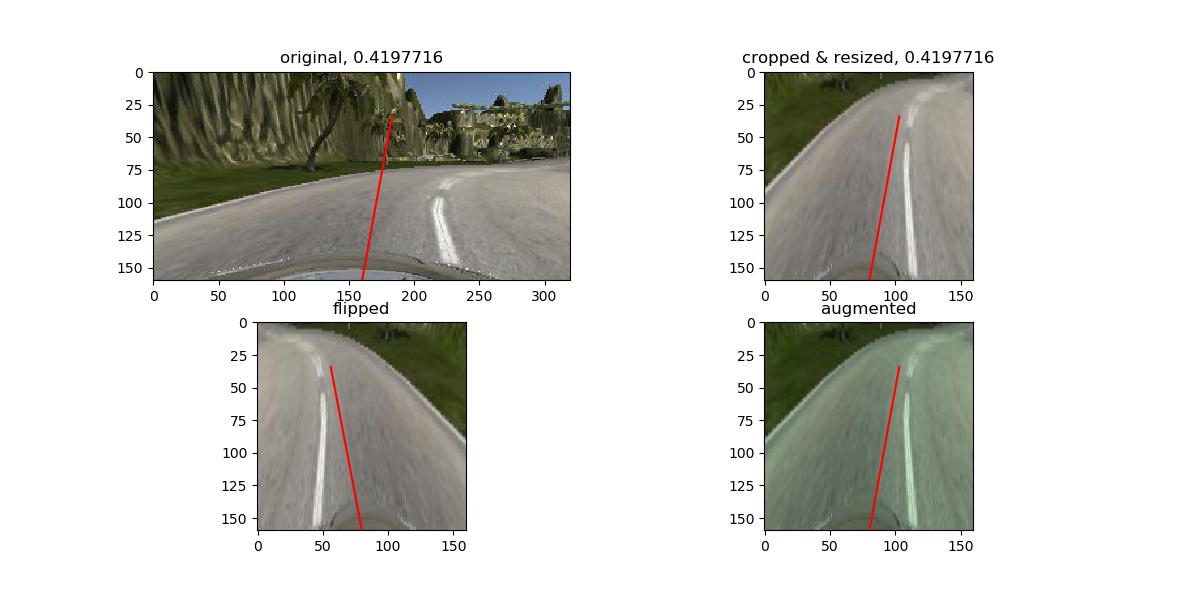
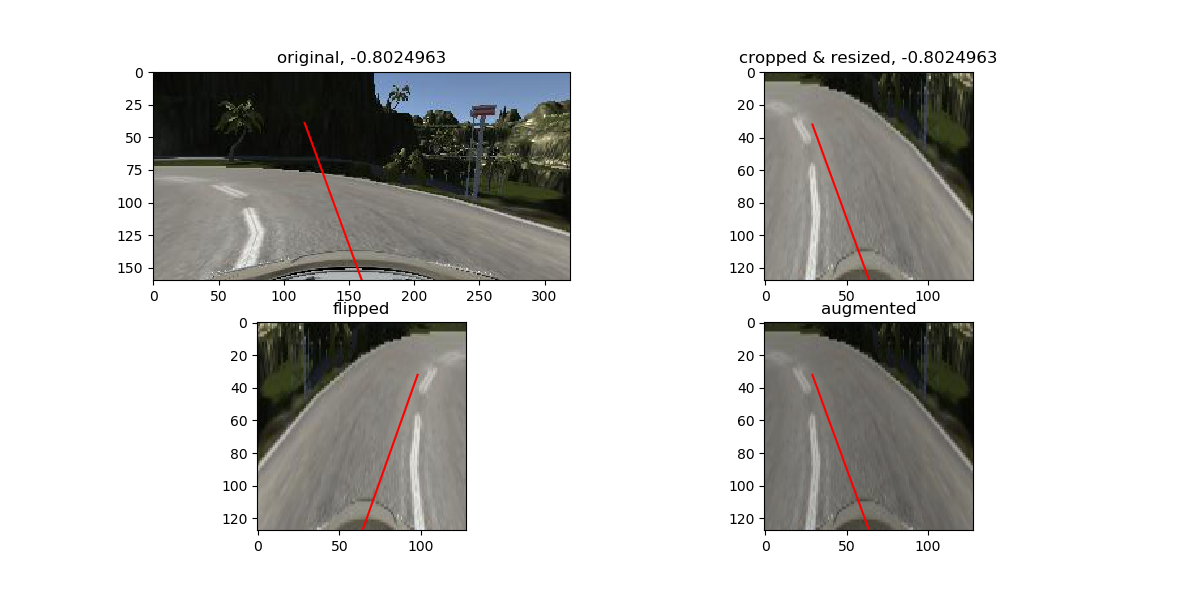
update

diff --git a/test.py b/test.py
@@ -13,7 +13,7 @@ import matplotlib.image as mpimg
 import matplotlib.pyplot as plt
 from helper import *
 
-data_path ='./me_track2_data'
+data_path ='./me_track2_data3'
 
 logs = []
 input_file = csv.reader(open(data_path + '/driving_log.csv'))
@@ -51,7 +51,7 @@ def angle_line(input_img, angle):
     liney = (y0,y1)
     return linex, liney
 
-for log in logs[1000:]:
+for log in logs[100:]:
     plt.figure(figsize=(12, 6), facecolor='w', edgecolor='k')
     orig_img, angle = load_img(log, perspective = pers , steering_correction = 0.2)
     plt.subplot(221)

diff --git a/model.py b/model.py
@@ -22,7 +22,7 @@ from data_augmentation import create_augmen_img_byflip
 
 ################################
 batch_size = 50
-augmented_per_sample = 1
+augmented_per_sample = 0
 plot_distribution = 0
 use_all_perspectives = 0
 model_loader = 'my_model'

diff --git a/helper.py b/helper.py
@@ -175,7 +175,7 @@ def load_img(sample, perspective, steering_correction = 0.2):
 def crop_resize_img(img):
     img = img[69:149, :]
 
-    img = cv2.resize(img,(160,160))
+    img = cv2.resize(img,(128,128))
 
     return img
 
